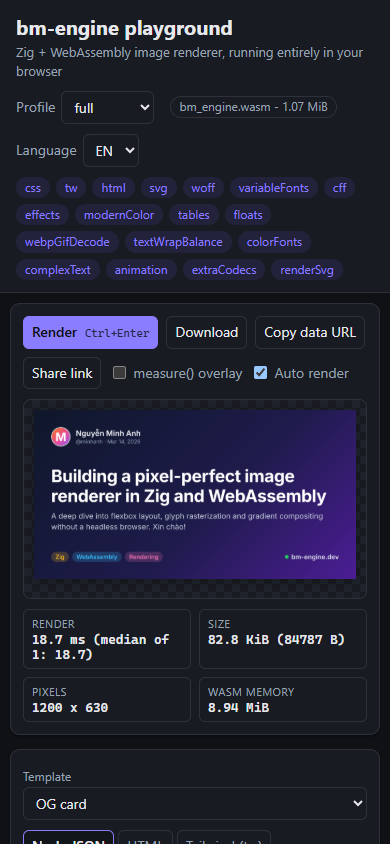
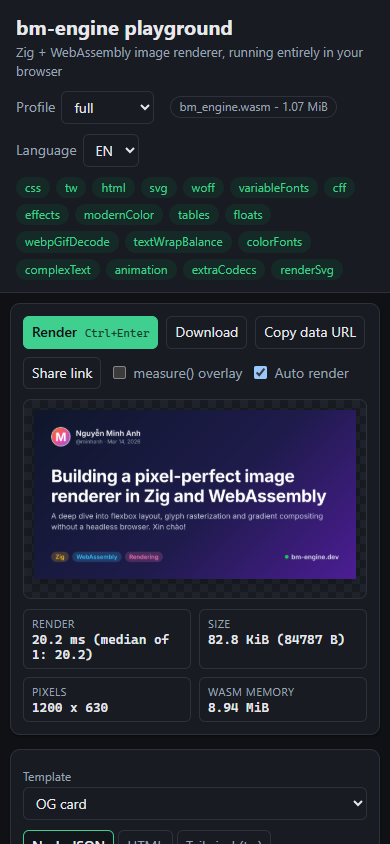
Playground: never show an empty editor (load race, stale state, empty tab); green brand colour #008046

diff --git a/docs/playground-app/app.js b/docs/playground-app/app.js
@@ -31,6 +31,7 @@ let blobUrl = "";
 let renderSeq = 0;
 let renderCount = 0;
 let debounce = 0;
+let ready = false; // UI events before the saved state is in the form must not overwrite it
 
 const json = (o) => JSON.stringify(o);
 function saveLocal() {
@@ -401,11 +402,14 @@ function wire() {
   });
   $("template").addEventListener("change", (e) => { if (e.target.value) applyTemplate(e.target.value); else $("templateHint").hidden = true; });
   for (const b of document.querySelectorAll("#tabs button")) b.addEventListener("click", () => {
-    fromUI(); state.kind = b.dataset.kind; toUI(); persist(); scheduleRender(0);
+    if (!ready) return;
+    fromUI(); state.kind = b.dataset.kind;
+    if (!String(state[state.kind] ?? "").trim()) { const t = templates.find((x) => x.kind === state.kind); if (t) { applyTemplate(t.id); return; } }
+    toUI(); persist(); scheduleRender(0);
   });
-  const onEdit = () => { fromUI(); state.template = ""; $("template").value = ""; updateVisibility(); persist(); scheduleRender(); };
+  const onEdit = () => { if (!ready) return; fromUI(); state.template = ""; $("template").value = ""; updateVisibility(); persist(); scheduleRender(); };
   for (const id of ["src", "css"]) $(id).addEventListener("input", onEdit);
-  const onOpt = () => { fromUI(); updateVisibility(); persist(); scheduleRender(); };
+  const onOpt = () => { if (!ready) return; fromUI(); updateVisibility(); persist(); scheduleRender(); };
   for (const id of [...FIELDS, "format", "autoRender", "measureToggle"]) { $(id).addEventListener("input", onOpt); $(id).addEventListener("change", onOpt); }
   $("measureToggle").addEventListener("change", () => { if (!$("measureToggle").checked) $("overlay").hidden = true; scheduleRender(0); });
   for (const id of ["src", "css"]) $(id).addEventListener("keydown", (e) => {
@@ -454,16 +458,20 @@ async function main() {
   if (!fromHash && !local) {
     const t = templates[0]; state.kind = t.kind; state[t.kind] = t.source; state.width = t.width; state.height = t.height; state.template = t.id;
     for (const im of t.images ? t.images() : []) state.images.push({ ...im });
-  } else if (state.template && !state[state.kind]) {
-    const t = templates.find((x) => x.id === state.template); if (t) state[t.kind] = t.source;
   }
   if (!["json", "html", "tw"].includes(state.kind)) state.kind = "json";
+  // A saved state with an empty editor (older builds could store one) falls back to its template, else the default one.
+  if (!String(state[state.kind] ?? "").trim()) {
+    const t = templates.find((x) => x.id === state.template && x.kind === state.kind) || templates.find((x) => x.kind === state.kind) || templates[0];
+    state.kind = t.kind; state[t.kind] = t.source; state.template = t.id; if (!state.css) state.css = t.css || "";
+    for (const im of t.images ? t.images() : []) if (!state.images.some((x) => x.src === im.src)) state.images.push({ ...im });
+  }
 
   try {
     await loadEngine();
     await loadDefaultFonts();
   } catch (e) { setError("Failed to start the engine: " + (e.message || e)); document.body.dataset.ready = "error"; return; }
-  fillTemplateSelect(); toUI(); renderFontList(); renderImageList();
+  fillTemplateSelect(); toUI(); ready = true; renderFontList(); renderImageList();
   const t = templates.find((x) => x.id === state.template); if (t?.hint) { $("templateHint").hidden = false; $("templateHint").textContent = t.hint[getLang()]; }
   document.body.dataset.ready = "1";
   document.body.dataset.profile = profile;

diff --git a/docs/playground-app/style.css b/docs/playground-app/style.css
@@ -1,6 +1,6 @@
 :root {
   --bg: #f6f7f9; --panel: #ffffff; --text: #16191f; --muted: #5d6675; --border: #d8dce3;
-  --accent: #5b4bdb; --accent-text: #ffffff; --code-bg: #fbfbfd; --warn-bg: #fff4e0; --warn-text: #7a4a00;
+  --accent: #008046; --accent-text: #ffffff; --code-bg: #fbfbfd; --warn-bg: #fff4e0; --warn-text: #7a4a00;
   --err-bg: #fdecec; --err-text: #8a1c1c; --check-a: #e9ebef; --check-b: #f6f7f9; --shadow: 0 1px 3px rgba(0,0,0,.08);
   --mono: ui-monospace, "Cascadia Code", "SF Mono", Menlo, Consolas, "Liberation Mono", monospace;
   --sans: system-ui, -apple-system, "Segoe UI", Roboto, "Helvetica Neue", Arial, sans-serif;
@@ -8,13 +8,13 @@
 @media (prefers-color-scheme: dark) {
   :root:not([data-theme="light"]) {
     --bg: #0f1115; --panel: #181b21; --text: #e6e8ec; --muted: #9aa3b2; --border: #2c313b;
-    --accent: #8b7dff; --accent-text: #0f1115; --code-bg: #12151a; --warn-bg: #3a2c10; --warn-text: #f3c77a;
+    --accent: #3fcf8e; --accent-text: #0f1115; --code-bg: #12151a; --warn-bg: #3a2c10; --warn-text: #f3c77a;
     --err-bg: #3a1618; --err-text: #ffb4b4; --check-a: #1f232b; --check-b: #181b21; --shadow: 0 1px 3px rgba(0,0,0,.5);
   }
 }
 :root[data-theme="dark"] {
   --bg: #0f1115; --panel: #181b21; --text: #e6e8ec; --muted: #9aa3b2; --border: #2c313b;
-  --accent: #8b7dff; --accent-text: #0f1115; --code-bg: #12151a; --warn-bg: #3a2c10; --warn-text: #f3c77a;
+  --accent: #3fcf8e; --accent-text: #0f1115; --code-bg: #12151a; --warn-bg: #3a2c10; --warn-text: #f3c77a;
   --err-bg: #3a1618; --err-text: #ffb4b4; --check-a: #1f232b; --check-b: #181b21; --shadow: 0 1px 3px rgba(0,0,0,.5);
 }
 :root[data-theme="light"] { color-scheme: light; }
@@ -27,7 +27,7 @@ h1 { font-size: 20px; margin: 0; }
 .brand { flex: 1 1 280px; min-width: 0; }
 .top-controls { display: flex; flex-wrap: wrap; align-items: center; gap: 10px 16px; }
 .chips { flex: 1 1 100%; display: flex; flex-wrap: wrap; gap: 6px; }
-.chip { display: inline-block; padding: 1px 8px; border-radius: 999px; font-size: 12px; background: rgba(91,75,219,.14); color: var(--accent); border: 1px solid transparent; }
+.chip { display: inline-block; padding: 1px 8px; border-radius: 999px; font-size: 12px; background: rgba(0,128,70,.14); color: var(--accent); border: 1px solid transparent; }
 .chip.off { background: transparent; color: var(--muted); border-color: var(--border); text-decoration: line-through; }
 .chip.muted { background: transparent; color: var(--muted); border-color: var(--border); text-decoration: none; }
 label.inline { display: inline-flex; align-items: center; gap: 6px; color: var(--muted); }
@@ -48,7 +48,7 @@ button.primary kbd { font: 11px var(--mono); opacity: .8; margin-left: 4px; }
 .row { display: flex; gap: 8px; align-items: center; flex-wrap: wrap; margin: 6px 0; }
 .grow { flex: 1; }
 .lbl { display: block; color: var(--muted); font-size: 12px; margin-bottom: 2px; }
-.hint { margin: 6px 0; padding: 6px 10px; border-radius: 6px; background: rgba(91,75,219,.1); font-size: 13px; }
+.hint { margin: 6px 0; padding: 6px 10px; border-radius: 6px; background: rgba(0,128,70,.1); font-size: 13px; }
 .note { margin: 6px 0; color: var(--muted); font-size: 12px; }
 .note.warn { background: var(--warn-bg); color: var(--warn-text); padding: 6px 10px; border-radius: 6px; }
 .tabs { display: flex; gap: 4px; margin-top: 10px; border-bottom: 1px solid var(--border); }

diff --git a/docs/.vitepress/theme/custom.css b/docs/.vitepress/theme/custom.css
@@ -1,18 +1,18 @@
 /* bm-engine docs theme tweaks */
 :root {
-  --vp-c-brand-1: #5b4bdb;
-  --vp-c-brand-2: #6f61e6;
-  --vp-c-brand-3: #5b4bdb;
-  --vp-c-brand-soft: rgba(91, 75, 219, 0.14);
+  --vp-c-brand-1: #008046;
+  --vp-c-brand-2: #00693a;
+  --vp-c-brand-3: #008046;
+  --vp-c-brand-soft: rgba(0, 128, 70, 0.14);
   --vp-home-hero-name-color: transparent;
-  --vp-home-hero-name-background: linear-gradient(120deg, #5b4bdb 20%, #e0569b);
+  --vp-home-hero-name-background: linear-gradient(120deg, #008046 20%, #2fbf7a);
 }
 .dark {
-  --vp-c-brand-1: #a197ff;
-  --vp-c-brand-2: #8b7dff;
-  --vp-c-brand-3: #6f61e6;
-  --vp-c-brand-soft: rgba(139, 125, 255, 0.16);
-  --vp-home-hero-name-background: linear-gradient(120deg, #a197ff 20%, #f07ab5);
+  --vp-c-brand-1: #3fcf8e;
+  --vp-c-brand-2: #63dba5;
+  --vp-c-brand-3: #008046;
+  --vp-c-brand-soft: rgba(63, 207, 142, 0.16);
+  --vp-home-hero-name-background: linear-gradient(120deg, #3fcf8e 20%, #a6f0cb);
 }
 
 /* Wide benchmark tables: scroll inside the table, never widen the page. */
